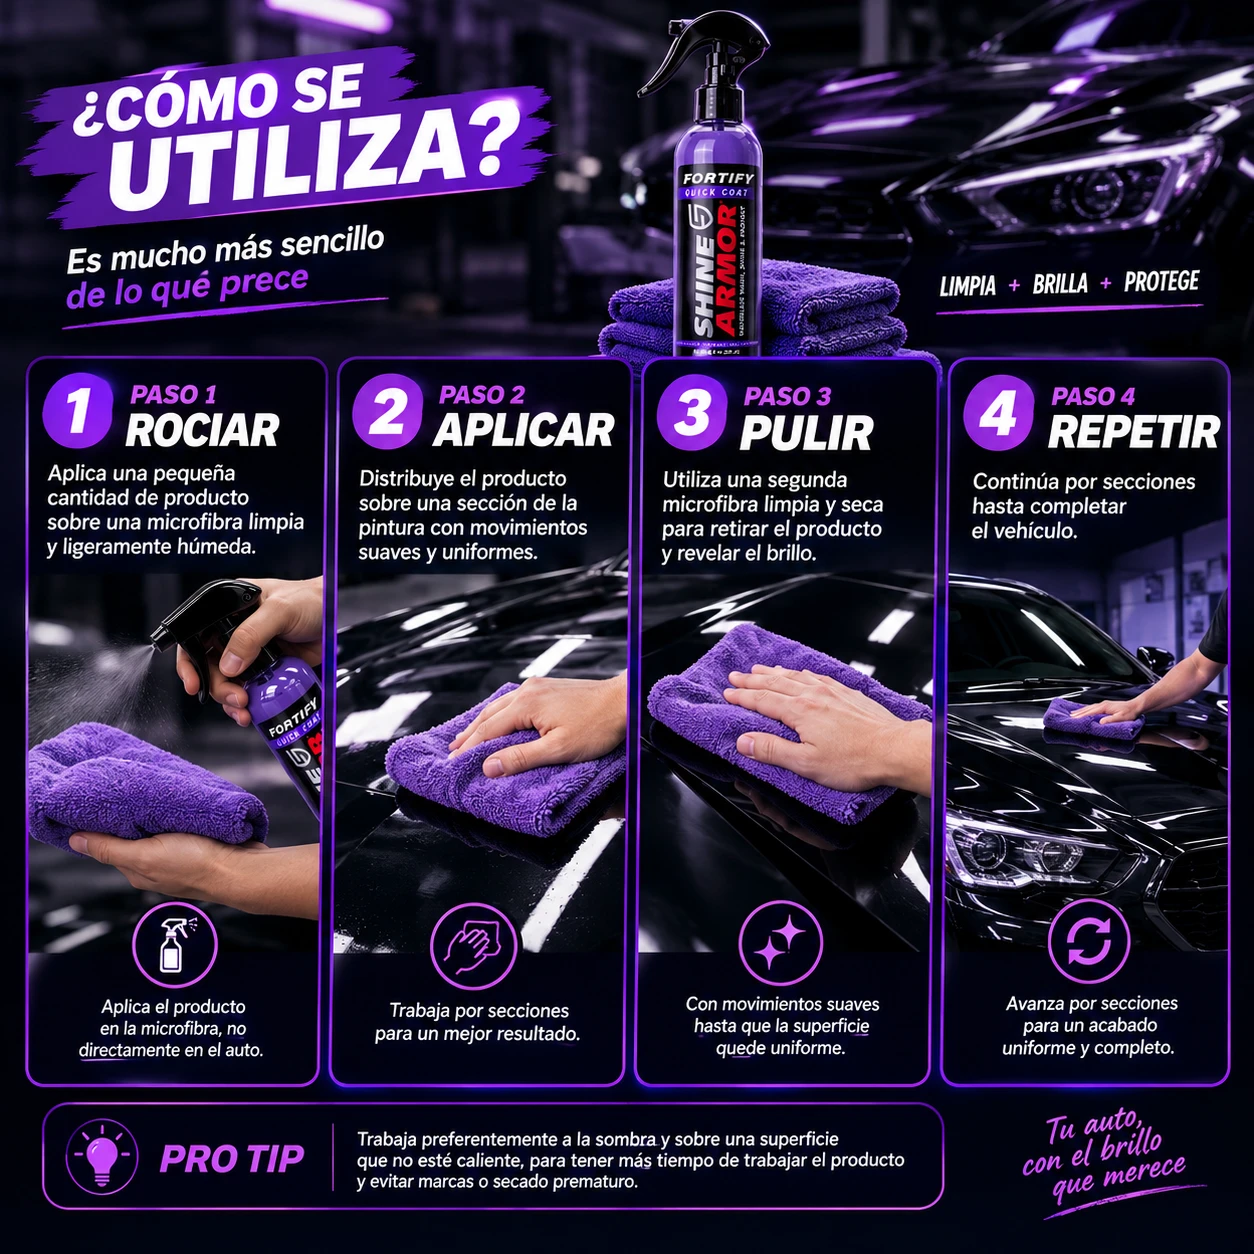
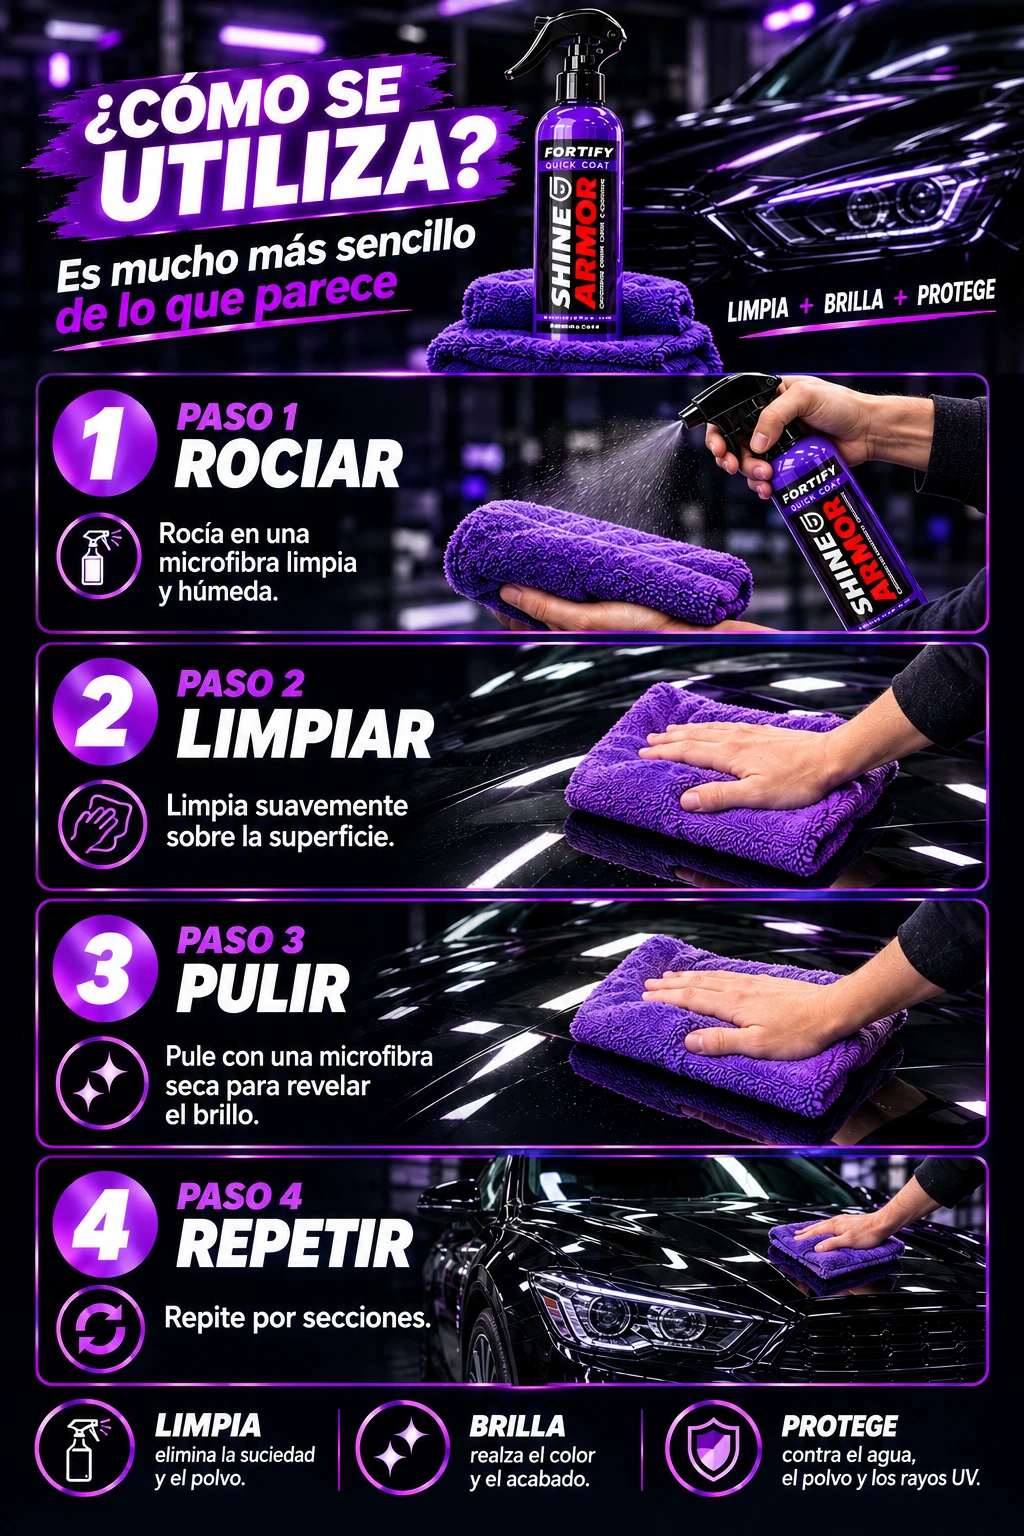
Cómo se usa: nueva imagen vertical de los pasos
- Reemplaza assets/qc-como-usar.webp por la versión vertical (1024×1536),
  con la ortografía corregida ("de lo que parece").
- El espacio pasa a proporción 2:3, hasta 480 px de ancho en escritorio.

diff --git a/assets/ax.css b/assets/ax.css
@@ -3752,9 +3752,12 @@ textarea.ax-input {
 }
 
 .ax-copy__media--9x16,
-.ax-copy__media--2x3,
 .ax-copy__media--4x5 {
   max-width: 360px;
+}
+
+.ax-copy__media--2x3 {
+  max-width: 480px;
 }
 
 .ax-qa__closing + .ax-copy__media,
